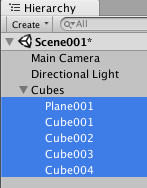
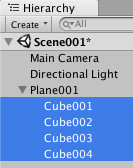
Update

diff --git a/examples/README.md b/examples/README.md
@@ -1786,9 +1786,8 @@ public class Main : MonoBehaviour {
 	* Position X: -2 Y: 0.6 Z: -2（"Cube004"）
 
 ### 入れ子（ネスト）化
-* 上記の床と4つの立方体を、空のGameObjectに入れます。
-1. [GameObject]-[Create Empty] を選択（名前は "Cubes" に変更）。
-1. [Hierarchy]-[Cubes] の階層下に "Plane001" およびと "Cube001" 〜 "Cube004" をドラッグ＆ドロップで移動します。  
+* 上記の4つの立方体を、床（"Plane001"）の入れ子とします。
+1. [Hierarchy]-[Plane001] の階層下に "Cube001" 〜 "Cube004" をドラッグ＆ドロップで移動します。  
 ![026_1](https://takashinishimura.github.io/Unity/examples/jpg/026_1.jpg)
 
 ### 空のゲームオブジェクトを作成
@@ -1813,8 +1812,8 @@ public class Main : MonoBehaviour {
 	private GameObject _cube001; //赤のCube001
 
 	void Start () {
-		_cubes = GameObject.Find("Cubes"); //各GameObjectの上位の空のGameObject
-		_cube001 = _cubes.transform.Find("Cube001").gameObject; //入れ子のXXを検索
+		_cubes = GameObject.Find("Plane001"); //床
+		_cube001 = _cubes.transform.Find("Cube001").gameObject; //入れ子の赤い立方体を検索
 	}
 
 	void Update () { //全体が回転しても赤のCube001だけ正面を向かせる
